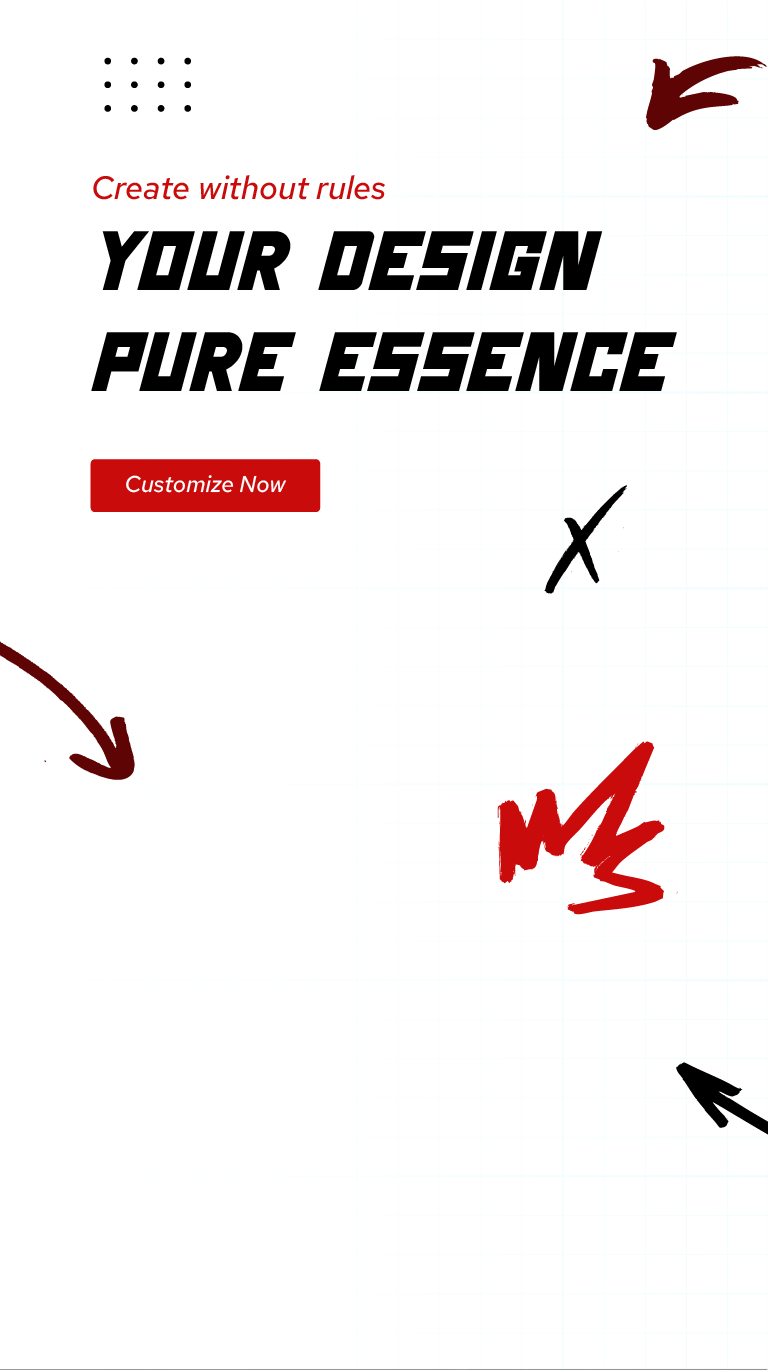
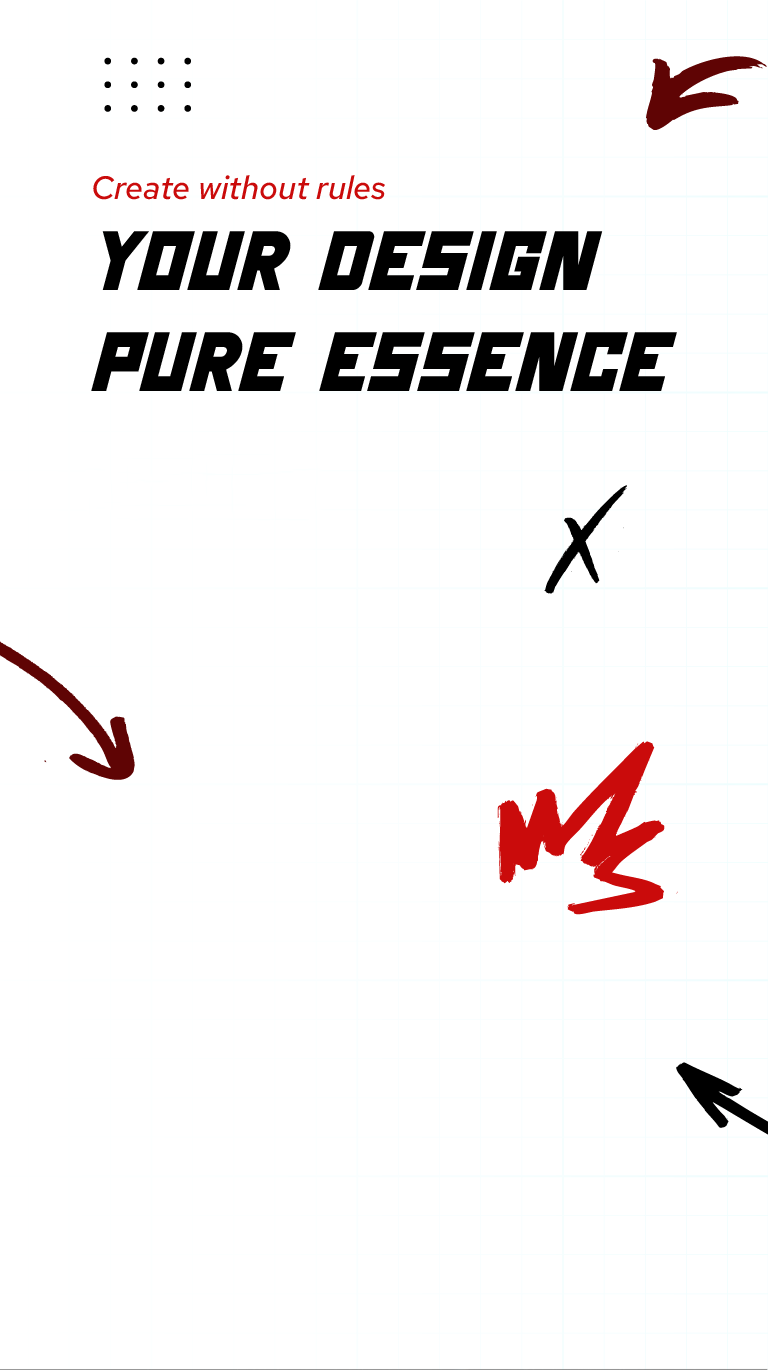
style: change bg images

Changed region(s): [[0.0938, 0.3372, 0.4375, 0.3985]]

diff --git a/src/app/(layout-1)/your-design/page.tsx b/src/app/(layout-1)/your-design/page.tsx
@@ -56,9 +56,12 @@ export default function Home() {
         </Box>
         <Box
           sx={{
-            display: { xs: "none", md: "block" },
+            display: { xs: "", md: "block" },
             position: "absolute",
-            top: "70%",
+            top: {
+              xs: "35%",
+              md: "70%",
+            },
             left: "7%",
             transform: "translateY(-50%)",
           }}
@@ -71,11 +74,12 @@ export default function Home() {
               color: "white",
               fontSize: {
                 xs: "0.5rem",
-                sm: "0.50rem",
-                md: "1.5rem",
+                sm: "1.0rem",
+                md: "1.0rem",
+                lg: "1.5rem",
                 xl: "2rem",
               },
-              padding: { xs: "4px 8px", sm: "4px 8px", md: "8px 16px" },
+              padding: { xs: "8px 16px", sm: "8px 16px", md: "8px 16px" },
             }}
           >
             Customize Now
@@ -123,7 +127,7 @@ export default function Home() {
         <Box
           sx={{
             position: "absolute",
-            bottom: "20%", // Ajusta la posición vertical del botón
+            bottom: "7%", // Ajusta la posición vertical del botón
             left: "50%",
             transform: "translateX(-50%)", // Centra el botón horizontalmente
           }}
@@ -136,11 +140,12 @@ export default function Home() {
               color: "white",
               fontSize: {
                 xs: "0.5rem",
-                sm: "0.50rem",
-                md: "1.5rem",
+                sm: "1.0rem",
+                md: "1.0rem",
+                lg: "1.5rem",
                 xl: "2rem",
               },
-              padding: { xs: "4px 8px", sm: "4px 8px", md: "8px 16px" },
+              padding: { xs: "8px 16px", sm: "8px 16px", md: "8px 16px" },
             }}
           >
             Customize Now

diff --git a/src/app/(layout-1)/your-design/Form.tsx b/src/app/(layout-1)/your-design/Form.tsx
@@ -289,7 +289,18 @@ export default function RequestForm() {
           sx={{
             bgcolor: "primary.main",
             color: "white",
+            fontSize: {
+              xs: "0.5rem",
+              sm: "1.0rem",
+              md: "1.0rem",
+              lg: "1.5rem",
+              xl: "2rem",
+            },
+            padding: { xs: "8px 16px", sm: "8px 16px", md: "8px 16px" },
             marginTop: 4,
+            display: { xs: "block" },
+            marginLeft: { xs: "auto", md: 0 },
+            marginRight: { xs: "auto", md: 0 },
           }}
         >
           Customize Now
